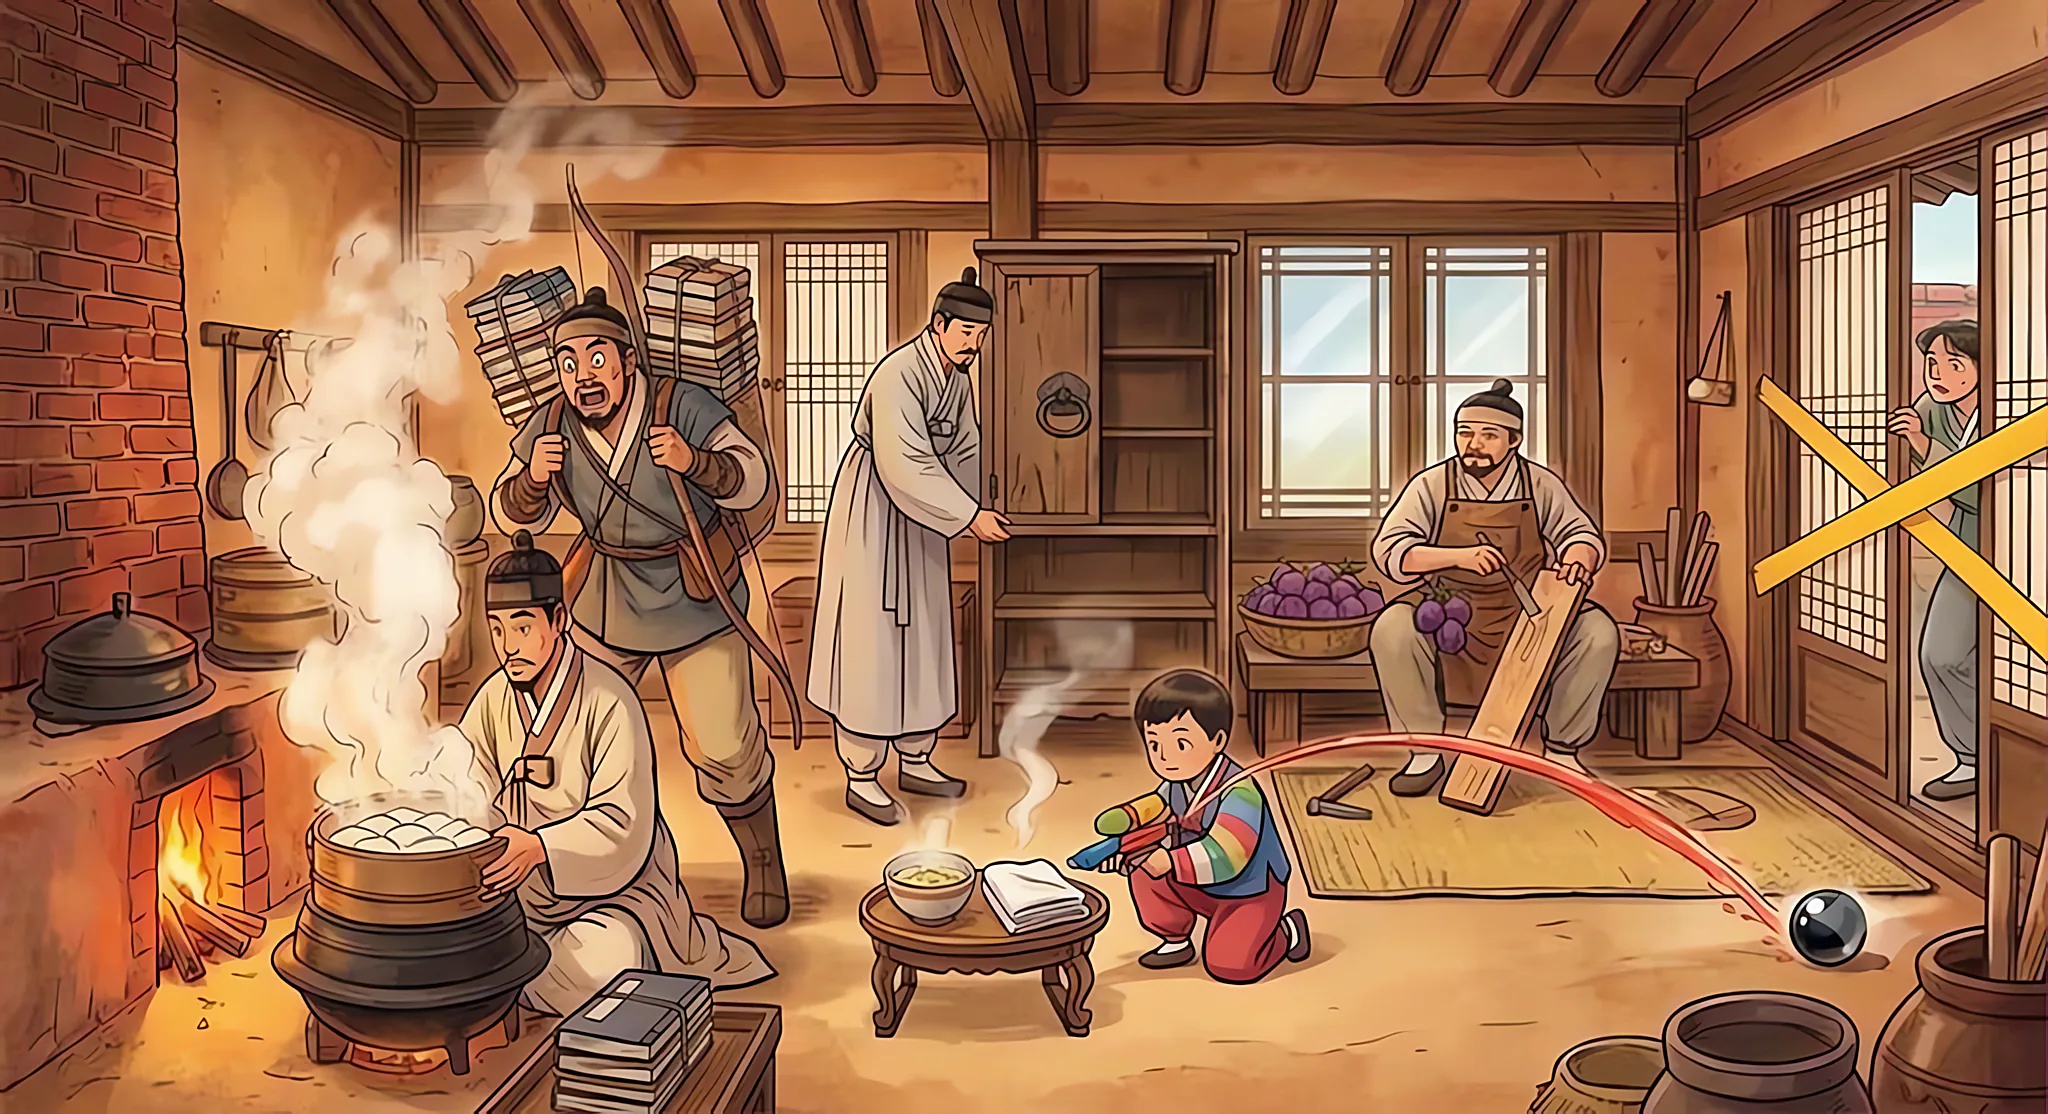
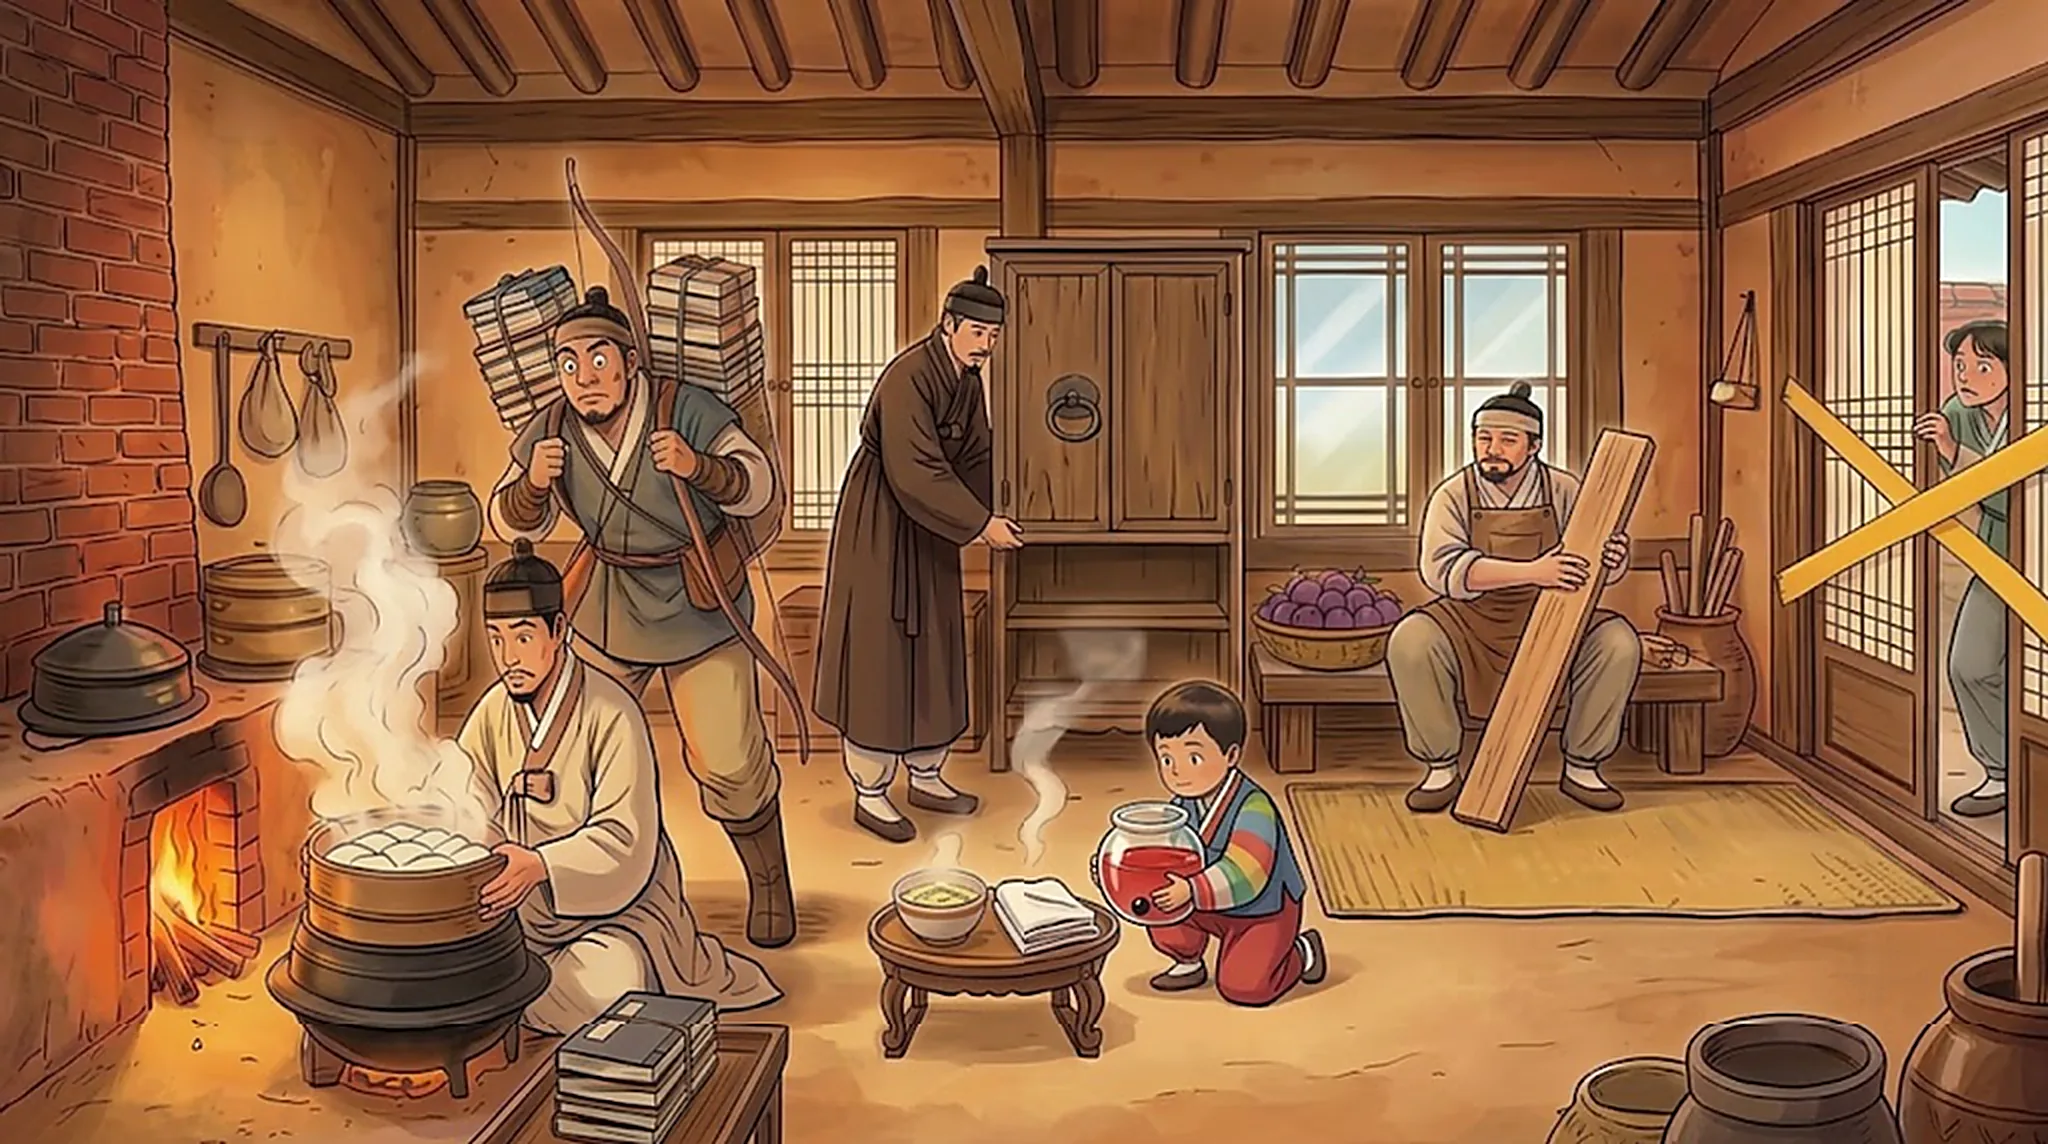
redraw9: s01p02 溫補派 — 동사 소품 반납(물총→항아리·대패질→판목 안기·벌린 입→다문 입) · 【官】【肺】 반납 — blind12 ✗→✓ 65%
Claude-Session: https://claude.ai/code/session_01H8LcZK4WVLkMjSUBUXBg6J

diff --git a/index.html b/index.html
@@ -77,15 +77,15 @@ footer{color:#999;font-size:12px;text-align:center;padding:20px}
 <img loading="lazy" decoding="async" src="images/s01p02.webp" alt="">
 <table><thead><tr><th>소품</th><th>잠그는 사실 (테스트 모드: 탭하여 확인)</th></tr></thead><tbody>
 <tr><td class="prop">아궁이 백설기 시루 <span class="why">왜?</span></td><td class="fact">薛己(明) — 溫補派 선구</td></tr>
-<tr class="reason"><td colspan="2" class="rz">다리 — 薛=설 → 백설기. 온돌 아궁이에 불 때는 사람=따뜻하게 보하는(溫補) 학파의 첫 주자.<br>◆ 개념 — 온보파: 주단계류 滋陰·苦寒 남용으로 양기가 상하는 폐단에 맞서, 命門·원기를 따뜻하게 북돋자는 명대 흐름.</td></tr>
-<tr><td class="prop">경악 표정+산더미 책 두 짐+등의 활 <span class="why">왜?</span></td><td class="fact">張介賓(景岳)(明) — 『類經』『景岳全書』</td></tr>
-<tr class="reason"><td colspan="2" class="rz">다리 — 호 景岳 → 소리 그대로 "경악!" 표정. 岳=큰 산 → 산더미만 한 책 두 짐 = 대표작이 정확히 두 권(『類經』『景岳全書』). 등의 활=張씨 공용 기호.<br>◆ 개념 — 『類經』=내경을 종류별로 재편한 주석서, 『景岳全書』=64권짜리 임상 총서. 온보파의 이론적 기둥.</td></tr>
-<tr><td class="prop">헌 장롱: 문 한 짝+꿰뚫는 고리 <span class="why">왜?</span></td><td class="fact">趙獻可(明) — 命門說 / 『醫貫』</td></tr>
-<tr class="reason"><td colspan="2" class="rz">다리 — 獻=바칠 헌 → "헌" 장롱을 바치는 소리 다리. 문이 하나뿐=생명의 문 命門 하나를 중시. 문을 꿰뚫는(貫) 고리=『醫貫』.<br>◆ 개념 — 命門=두 신장 사이의 생명 불씨. 이 하나의 불이 전신 양기의 뿌리라는 학설 — 『의관(醫貫)』=이 한 이치로 의학 전체를 꿰뚫는다는 제목.</td></tr>
-<tr><td class="prop">물총 붉은 물줄기 끝 검은 구슬 <span class="why">왜?</span></td><td class="fact">孫一奎(明) — 『赤水玄珠』</td></tr>
-<tr class="reason"><td colspan="2" class="rz">다리 — 孫=손자(어린이), 一=물총 한 발. 붉은 물(赤水) 끝에서 검은 구슬(玄珠) = 서명 네 글자를 통째로 장면화.<br>◆ 개념 — 赤水玄珠=붉은 물 속 검은 구슬이라는 도가적 비유로 의학의 요체를 가리킨 서명.</td></tr>
-<tr><td class="prop">이중창 가운데 목수+판목+허리 자두 <span class="why">왜?</span></td><td class="fact">李中梓(士材)(明) — 『醫宗必讀』</td></tr>
-<tr class="reason"><td colspan="2" class="rz">다리 — 中=이중창의 "가운데" 자리, 梓=가래나무(판목) → 목수가 판목에 "반드시 읽어라"를 새김=『醫宗必讀』. 자두=李씨 기호.<br>◆ 개념 — 『醫宗必讀』=의학 입문자가 반드시 읽어야 할 요점을 추린 책 — 명대 보급형 교과서.</td></tr>
+<tr class="reason"><td colspan="2" class="rz">다리 — 薛=설 → 백설기. 온돌 아궁이에 불 때는 사람=따뜻하게 보하는(溫補) 학파의 첫 주자.<br>◆ 개념 — 온보파: 주단계류 滋陰·苦寒 남용으로 양기가 상하는 폐단에 맞서, 命門·원기를 따뜻하게 북돋자는 명대 흐름.<br>▸ 재작도 9차(2026-10-10) — 시루 김을 절반 이하로 줄였다. 큰 김기둥은 【氣】(서린 흰 김)에 가까워 보조 주제를 흐린다. 시루·백설기 자체가 薛을 지므로 김은 「찌는 중」 표시만 하면 된다.</td></tr>
+<tr><td class="prop">입 꼭 다문 채 눈만 크게 뜬 경악 표정 + 산더미 책 두 짐 + 등의 활 <span class="why">왜?</span></td><td class="fact">張介賓(景岳)(明) — 『類經』『景岳全書』</td></tr>
+<tr class="reason"><td colspan="2" class="rz">다리 — 호 景岳 → 소리 그대로 "경악!" 표정. 岳=큰 산 → 산더미만 한 책 두 짐 = 대표작이 정확히 두 권(『類經』『景岳全書』). 등의 활=張씨 공용 기호.<br>◆ 개념 — 『類經』=내경을 종류별로 재편한 주석서, 『景岳全書』=64권짜리 임상 총서. 온보파의 이론적 기둥.<br>▸ 재작도 9차(2026-10-10, 규칙 173) — blind10이 벌린 입을 **吐**(張從正 汗吐下)로 읽어 金元으로 미끄러졌다. 입은 다물고 눈만 크게 — 「경악」은 눈으로 지고 입은 동사를 지지 않게 했다.</td></tr>
+<tr><td class="prop">닫힌 헌 장롱: 문 한 짝 + 쇠고리 — 갈색 도포 남자가 그 문을 붙들고 섬 <span class="why">왜?</span></td><td class="fact">趙獻可(明) — 命門說 / 『醫貫』</td></tr>
+<tr class="reason"><td colspan="2" class="rz">다리 — 獻=바칠 헌 → "헌" 장롱을 바치는 소리 다리. 문이 하나뿐=생명의 문 命門 하나를 중시. 문을 꿰뚫는(貫) 고리=『醫貫』.<br>◆ 개념 — 命門=두 신장 사이의 생명 불씨. 이 하나의 불이 전신 양기의 뿌리라는 학설 — 『의관(醫貫)』=이 한 이치로 의학 전체를 꿰뚫는다는 제목.<br>▸ 재작도 9차(2026-10-10, 규칙 173) — 종전 장롱은 **열려 있어 선반이 드러났고**(【官】=3층 선반장 → 十二官) 남자는 **흰 도포**(【肺】=흰 도포 재상)였다. 역검색에 걸리는 둘을 모두 반납: 문을 닫아 선반을 숨기고 도포를 갈색으로. 남은 것은 「문 한 짝 + 고리」뿐 — 命門·醫貫만 진다.</td></tr>
+<tr><td class="prop">아이가 두 손으로 품에 안은 투명 유리 항아리 — 안에 붉은 물, 바닥에 검은 구슬 하나(물은 흐르지 않고 고요함) <span class="why">왜?</span></td><td class="fact">孫一奎(明) — 『赤水玄珠』</td></tr>
+<tr class="reason"><td colspan="2" class="rz">다리 — 孫=손자(어린이), 一=항아리 하나·구슬 하나. 붉은 물(赤水) 속에 검은 구슬(玄珠) = 서명 네 글자를 통째로 정물 하나에 담음.<br>◆ 개념 — 赤水玄珠=붉은 물 속 검은 구슬이라는 도가적 비유로 의학의 요체를 가리킨 서명.<br>▸ 재작도 9차(2026-10-10, 규칙 173) — 종전 「물총에서 뿜어 나가는 붉은 물줄기」는 **동작**이라 blind10이 **下·瀉**(張從正)로 읽었다. 같은 네 글자(赤水玄珠)를 **정물**로 — 고요한 붉은 물 속 검은 구슬. 소품이 동사로 읽히면 학파 축이 무너진다는 교훈(s16p01 蜂蜜·s14p03 補中과 같은 유형).</td></tr>
+<tr><td class="prop">이중창 가운데 자리 — 연장 없이 긴 판목 하나를 가슴에 안고 앉은 목수 + 옆 자두 광주리 <span class="why">왜?</span></td><td class="fact">李中梓(士材)(明) — 『醫宗必讀』</td></tr>
+<tr class="reason"><td colspan="2" class="rz">다리 — 中=이중창의 "가운데" 자리, 梓=가래나무(판목) → 목수가 판목에 "반드시 읽어라"를 새김=『醫宗必讀』. 자두=李씨 기호.<br>◆ 개념 — 『醫宗必讀』=의학 입문자가 반드시 읽어야 할 요점을 추린 책 — 명대 보급형 교과서.<br>▸ 재작도 9차(2026-10-10, 규칙 173) — 종전 목수는 끌로 판목을 **깎는 중**이었고 바닥에 망치·대패가 있었다 → blind10이 **伎巧**(腎者作強之官 伎巧出焉, 十二官)로 읽었다. 연장을 모두 치우고 판목을 **안고만** 있게 — 梓(판목)만 남기고 동작을 지웠다.</td></tr>
 <tr class="trap"><td class="prop">문밖 출입금지 테이프 <span class="why">왜?</span></td><td class="fact">徐大椿 — 溫補派 아님(기출 함정 선지)</td></tr>
 <tr class="reason trap"><td colspan="2" class="rz">다리 — 徐=천천히·서성임 → 문앞에서 "서"성이기만 하고 입장 불가. 노란 테이프=공용 기호 "끼워 넣으면 틀리는 함정 인물".<br>◆ 개념 — 서대춘은 청대의 고증·비판 의가(『의학원류론』)로, 오히려 온보 남용을 비판한 쪽 — 온보파에 넣는 순간 정반대 인물이 된다.</td></tr>
 <tr><td class="prop">방 한가운데 낮은 상 — 가득 찬 국물 그릇 + 김 오르는 천 / 그 둘레 다섯 인물 묶음 <span class="why">왜?</span></td><td class="fact">溫補派(明) 5인 = 薛己·張介賓·趙獻可·孫一奎·李中梓</td></tr>

diff --git a/src/coverage/tile_stitch.py b/src/coverage/tile_stitch.py
@@ -1,19 +1,24 @@
 import sys, numpy as np
 from PIL import Image
-def crop_tile(path):
+def crop_tile(path, probe=10):
+    """타일은 왼쪽 위 모서리에 닿아 있다 — 오른쪽·아래의 마젠타 테두리를 찾아 잘라낸다."""
     im=Image.open(path).convert('RGB'); a=np.asarray(im).astype(int)
     mag=(a[:,:,0]>170)&(a[:,:,1]<100)&(a[:,:,2]>170)
     h,w=mag.shape
-    col=mag[:, 60]; row=mag[60, :]           # 왼쪽 위 모서리에 닿는 타일 → 위·왼쪽은 0
+    col=mag[:, probe]; row=mag[probe, :]
     ys=np.where(col)[0]; xs=np.where(row)[0]
     y1=int(ys[0]) if len(ys) else h; x1=int(xs[0]) if len(xs) else w
     return im.crop((0,0,x1-4,y1-4))
-def stitch(files, out):
-    tiles=[(0,0),(512,0),(0,512),(512,512)]
-    cv=Image.new('RGB',(1024,1024))
-    for f,t in zip(files,tiles):
-        c=crop_tile(f); print(f[-12:], c.size)
-        cv.paste(c.resize((512,512),Image.LANCZOS), t)
+def stitch(files, out, W=1024, H=1024, T=512):
+    """files: 타일 순서 (0,0),(T,0),(0,T),(T,T)… 행 우선. 각 타일을 CSS 크기로 되돌려 붙인다."""
+    cv=Image.new('RGB',(W,H)); k=0
+    for ty in range(0,H,T):
+        for tx in range(0,W,T):
+            tw=min(T,W-tx); th=min(T,H-ty)
+            c=crop_tile(files[k]); print(files[k][-12:], c.size, '->', (tw,th))
+            cv.paste(c.resize((tw,th),Image.LANCZOS), (tx,ty)); k+=1
     cv.save(out); return cv
 if __name__=='__main__':
-    stitch(sys.argv[1:5], sys.argv[5])
+    # usage: tile_stitch.py out.png W H tile1 tile2 ...
+    out=sys.argv[1]; W=int(sys.argv[2]); H=int(sys.argv[3])
+    stitch(sys.argv[4:], out, W, H)

diff --git a/src/coverage/blind12/801.md b/src/coverage/blind12/801.md
@@ -1,0 +1,45 @@
+# 801 판독
+
+## 1단계 — 생판 (사전 없이)
+
+**① 소품과 나르는 사실(추정)**
+- 무대: 한옥 집 한 채(家/室)이고, 일꾼 6명이 각자 맡은 일을 한다. 장부 하나에 기능 여럿을 붙인 구도로 읽힌다.
+- 아궁이 불(장작) 위 가마솥과 시루, 그 안 흰 떡·만두 약 8개, 큰 김: 솥 밑 불로 음식을 익힌다 → 命門火가 脾胃의 腐熟을 돕는다(釜底之薪). 김은 蒸騰 氣化.
+- 도포 입은 선비가 둘짝 문 장롱(고리 손잡이 1개, 아래 칸은 빔)을 여닫는다 → 藏(藏精).
+- 지게에 책 두 더미(왼쪽 약 7권, 오른쪽 약 9권, 각 더미가 머리만 함)를 지고 활을 멘 채 놀란 사내 → 허리·등에 진 무거운 짐(腰者腎之府?), 놀람(驚).
+- 앞쪽 끈으로 묶은 책 1더미(약 5권): 뜻 불명.
+- 색동옷 아이가 빨간 액체가 든 유리 어항을 안음(검은 점 1개) → 生長發育·先天, 빨강은 血(精血同源)?
+- 소반 위 김 나는 국 1그릇과 접힌 흰 종이(붓 1자루): 水穀? 唾?
+- 앞치마 목수가 긴 널판을 듦 → **作强之官 伎巧出焉**.
+- 자주색 포도(오디?) 바구니 1(15알 남짓), 막대 약 5개 꽂힌 항아리와 옆의 작은 꾸러미 1.
+- 노란 X 테이프로 막은 문과 그 틈으로 겁먹은 여인 → 封藏(閉藏)과 恐.
+- 앞쪽 항아리 3개(1개에 막대) → 主水·저장. 왼벽 국자 1과 천 주머니 2, 솥뚜껑 1, 3단 찬합 1, 오른벽 주머니 1.
+
+**② 표제어**
+- 1순위 **腎(藏精·作强之官·封藏之本·命門火)**: 30%
+- 2순위 **十二官(靈蘭秘典論)**: 15%
+
+**③ 뜻 모를 것·어색한 것·잘림**
+- 활과 책더미 조합, 어항 속 검은 점, 바닥에서 따로 피어오르는 김 줄기 1개, 포도, 접힌 종이와 붓, 왼벽 주머니 2개는 뜻을 모르겠다.
+- 오른쪽 아래 항아리와 앞쪽 책상은 프레임에 잘렸고, 문틈 여인은 몸 반쪽만 보인다.
+
+## 2단계 — 계통 (blind6 사전 적용, 같은 그림을 확대해 한 번 더 봄)
+
+**① 사전으로 다시 읽은 소품**
+- 등에 멘 긴 활은 **張**이다. 지게의 책 두 더미(각 9~10권, 거의 같은 크기라 大는 아님)는 저술 분량으로, 張介賓의 類經과 景岳全書다.
+- 방 한가운데(中) 소반에 따뜻한 국 1그릇(補)과 김 오르는 흰 천(溫)이 함께 놓였다 → **溫補**. 이 판의 주제어로 읽힌다.
+- 목수 바로 곁 바구니에 잎 달린 자두가 있다(李, 허리춤은 아니고 엉덩이 옆). 목수는 梓人, 즉 梓이고, 막대 항아리와 자두 바구니 사이 한가운데(中)에 앉았다 → 李中梓.
+- 색동옷 아이는 孫이다. 유리 항아리 속 붉은 물(赤水)에 검은 구슬 1개(玄珠)가 떠 있다 → 孫一奎의 『赤水玄珠』. 1단계에서 「검은 점」으로 본 것이 이것으로 풀렸다.
+- 아궁이 불(熱·陽)이 가마솥과 시루를 덥히고 큰 김(氣)이 오른다 → 命門火가 脾胃를 데운다(脾腎 중시, 先天·後天). 여기 꿇어앉은 사내와 장롱 앞 도포 선비가 나머지 두 사람, 곧 薛己와 趙獻可 자리로 보이나 누가 누구인지는 가리지 못했다.
+- 사내 다섯이 溫補學派 다섯 명(薛己·孫一奎·趙獻可·張介賓·李中梓)과 수가 맞는다.
+
+**② 표제어**
+- 1순위 **溫補學派(明: 薛己·孫一奎·趙獻可·張介賓·李中梓)**: 65%
+- 2순위 **明代 命門學說(孫一奎 動氣·趙獻可·張介賓 水火之宅)**: 15%
+- 3순위 **張介賓(景岳)** 단독: 10%
+
+**③ 잔결**
+- 薛己와 趙獻可를 나르는 기호를 사전에서 못 찾았다(꿇은 시루 사내, 장롱 선비).
+- X 테이프 문틈의 겁먹은 여인이 格·惡·外 가운데 무엇인지 모르겠고, 다섯 명 바깥이라 남는다.
+- 張의 놀란 눈, 앞쪽에 묶인 책 5권과 흰 딱지, 왼벽 주머니 2개(收는 「하나」라 맞지 않음), 3단 찬합(久?), 막대 꽂힌 항아리와 옆 소품, 앞쪽 항아리 3개는 뜻을 모르겠다.
+- 오른쪽 아래 항아리와 앞쪽 책상은 프레임에 잘렸다.

diff --git a/src/coverage/blind12_report.md b/src/coverage/blind12_report.md
@@ -1,0 +1,24 @@
+# blind12 — 재작도 9차 확인 (2026-10-10)
+
+blind10이 「세 번째 유령」으로 꼽은 s01p02 溫補派를 규칙 173 역검색으로 다시 그려 새 판독자(Opus)로 재시험.
+
+| 가림 | 판 | blind6 | blind8 | blind10 | blind12 2단계 1순위 | 판정 |
+|---|---|---|---|---|---|---|
+| 801 | s01p02 溫補派 | △ 金元四大家 | ✗ 十二官 | ✗ 張從正 공하파 55% | **溫補學派 5인 65%** | **✗ → ✓** |
+
+## 무엇을 바꿨나 (Gemini 2라운드 편집, 화풍·구도 유지)
+blind10의 조립을 분해하면 유령은 소품 셋이 **동사**로 읽힌 데서 났다 — 물총에서 뿜는 붉은 물=下, 벌린 입=吐, 대패질=伎巧. 여기에 역검색에 걸리는 둘(【官】 열린 선반장, 【肺】 흰 도포)이 十二官 쪽 유령을 보탰다.
+- **孫一奎 赤水玄珠** — 물총·붉은 호·굴러가는 구슬 → 아이가 **품에 안은 유리 항아리 속 고요한 붉은 물 + 바닥의 검은 구슬 하나**. 같은 네 글자를 정물로.
+- **趙獻可 命門·醫貫** — 장롱 문을 **닫아** 선반을 숨기고(【官】 반납) 남자의 도포를 **갈색**으로(【肺】 반납). 남은 것은 문 한 짝 + 쇠고리.
+- **李中梓 醫宗必讀** — 끌·망치·대패를 모두 치우고 목수가 **판목을 안고만** 앉음(梓만 남김).
+- **張介賓** — 입을 다물고 **눈만 크게**(吐 반납). 활·책 두 짐 유지.
+- 시루 김 절반으로(【氣】 근접 완화). 補 국그릇 + 溫 천 상, 자두 광주리, 노란 X 문 + 문밖 여인 그대로.
+
+## 판독자가 읽은 것
+補(국그릇)+溫(천)=溫補 → 張(활)+책 두 짐=張介賓 → 자두+목수=李中梓 → 아이+붉은 물+검은 구슬=孫一奎 『赤水玄珠』 → 「사내 다섯 = 溫補 5인」으로 수를 맞춤. 1단계 생판에서는 腎(作强·封藏·命門火)으로 갔으나 2단계에서 溫補로 교정 — 사전이 제 몫을 했다.
+
+## 잔결(다음에)
+- **薛己·趙獻可는 자리만 읽힘** — 설기(백설기)·헌(헌 장롱)은 한국어 소리 다리라 사전 밖. 허브 해설이 메우는 영역이므로 유령만 아니면 된다.
+- 판독자가 왼쪽 아궁이 곁 **3단 찬합**(둥근 나무 찬합 탑)을 셌다 — 【官】(3층 선반장)과 꼴이 가깝다. 이번엔 걸리지 않았으나 다음 손질 때 2단으로 줄이거나 치울 후보.
+- 앞쪽 바닥 책 5권 묶음·왼벽 주머니 2개·앞쪽 항아리 3개는 뜻 불명(무대 소품). 오른쪽 아래 항아리 프레임 잘림.
+- 시루 앞 사내 표정이 2라운드에서 덩달아 놀란 눈이 됨 — 景岳 전담인 「경악」이 둘로 보일 수 있다(판독자는 지적 안 함).
